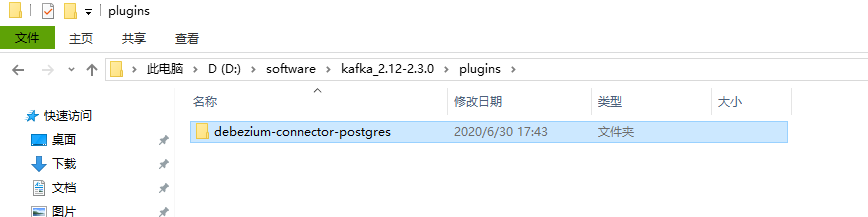
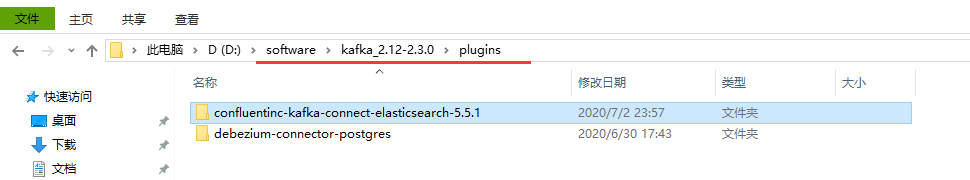
add

diff --git a/_posts/2020-07-02-通过 kafka 同步 postgres 数据到 elasticsearch 中.md b/_posts/2020-07-02-通过 kafka 同步 postgres 数据到 elasticsearch 中.md
@@ -1,0 +1,192 @@
+---
+layout: post
+title: "通过 kafka 同步 postgres 数据到 elasticsearch 中"
+date: 2020-07-02 20:00:00
+tags: kafka elasticsearch
+---
+
+## 系统环境及软件版本
+
+- window10 64位 系统
+- kafka 2.3.0 版本(下载地址 http://kafka.apache.org/downloads)
+- postgres 连接器 debezium-connector-postgres 1.1.2.Final 版本(下载地址 https://debezium.io/releases/1.1/)
+- es 连接器 confluentinc-kafka-connect-elasticsearch-5.5.1 版本(下载地址 https://www.confluent.io/hub/confluentinc/kafka-connect-elasticsearch)
+
+
+
+
+## 下载连接器插件
+
+根据上面的下载地址下载这两个连接器插件，下载后解压放到 `/software/kafka_2.12-2.3.0/plugins` 文件夹中，因为下面连接器的会配置这个地址为插件地址，启动连接器时会自动加载文件夹下的 jar 包。
+
+![](https://raw.githubusercontent.com/yupengj/yupengj.github.io/master/images/2020/plugins.png)
+
+## 启动 kafka 连接器
+
+- 首先启动连接器前要确保 kafka server 已经启动。修改 kafka 文件夹下 config/connect-distributed.properties 文件增加以下配置
+```properties
+# rest 请求地址
+rest.host.name=localhost
+rest.port=8083
+# 插件地址,为了清楚区分插件的 jar 和 kafka 的 jar 在 kafka 下增加插件文件夹（plugins），启动连接器时会加载该目录下的 jar。
+# 如果没有配置这个路径需要把插件的所有jar复制到 kafka 的 libs 目录下
+plugin.path=/software/kafka_2.12-2.3.0/plugins
+```
+
+- 启动连接器 Worker, 启动时有类着不到警告，暂时没有找到原因。
+```
+bin/windows/connect-distributed.bat config/connect-distributed.properties 
+```
+
+- 查看所有的连接器插件 `curl localhost:8083/connector-plugins`. 一共有4个连机器，前两个是新增加的，后两个是 kafka 自带的
+```json
+[{
+    "class": "io.confluent.connect.elasticsearch.ElasticsearchSinkConnector",
+    "type": "sink",
+    "version": "5.5.1"
+}, {
+    "class": "io.debezium.connector.postgresql.PostgresConnector",
+    "type": "source",
+    "version": "1.1.2.Final"
+}, {
+    "class": "org.apache.kafka.connect.file.FileStreamSinkConnector",
+    "type": "sink",
+    "version": "2.3.0"
+}, {
+    "class": "org.apache.kafka.connect.file.FileStreamSourceConnector",
+    "type": "source",
+    "version": "2.3.0"
+}]
+```
+
+> 到这里说明连接器工作节点已启动，并且连接 postgresql 和 es 的连接器都已经被加载成功
+
+
+## 创建 postgres 连接器
+
+创建 postgres 连接器之前，需要在 postgres 中安装 wal2json 插件或者 decoderbufs 插件。
+wal2json 插件安装可以参考我之前写的[文章](https://yupengj.github.io/2020/06/27/postgresql-%E5%AE%89%E8%A3%85-wal2json-%E6%8F%92%E4%BB%B6/)
+decoderbufs 插件安装可以参考 github 上的[官网文档](https://github.com/debezium/postgres-decoderbufs)
+
+### 准备同步数据
+
+在 postgres 创建用于测试的 schema 名称为 "test"。并在 test scheme 下创建 test_slot 表，并写入100条数据
+```postgresql
+create schema test;
+create table test.test_slot(id serial8 primary key, a text, b float8, c timestamp);
+do
+$$
+    declare
+        num integer := 1;
+    begin
+        while num <= 100
+            loop
+                insert into test.test_slot (a, b, c) values (num||'', num, now());
+                num := num + 1;
+            end loop;
+    end
+$$;
+```
+
+### postgres 连接器配置
+
+创建名称为 `connect-postgres-source.json` 的json文件放在 kafka 的 config 目录下. 文件内容如下，其中 database 开头的配置是配置数据库连接的参数。`schema.whitelist` 是要同步 scheme 下所有的表
+其他配置就不一一解释请参考官方文档。最下方有文档连接
+```json
+{
+  "name": "pg-source",
+  "config": {
+    "connector.class": "io.debezium.connector.postgresql.PostgresConnector",
+    "tasks.max": "1",
+    "database.hostname": "loaclhost",
+    "database.port": "5432",
+    "database.user": "postgres",
+    "database.password": "app",
+    "database.dbname": "postgres",
+    "database.server.name": "test",
+    "schema.whitelist": "test",
+    "table.blacklist": "",
+    "plugin.name": "wal2json",
+    "snapshot.mode": "initial",
+    "slot.name": "test"
+  }
+}
+```
+
+### 创建 postgres 连接器
+
+-d 是连接器的配置文件路径。我这个请求是在kafka目录下执行的，所以配置文件相对路径就是config/connect-postgres-source.json。命令在哪里执行都可以只要配置文件路径正确就可以
+```
+curl -i -X POST -H "Accept:application/json" -H "Content-Type:application/json" localhost:8083/connectors/ -d @config/connect-postgres-source.json
+```
+注意连接器创建前必须保证连接器 Worker 已启动。创建连接器后可通过 API 查看所有启动的连接器`curl localhost:8083/connectors`和连接器的状态`curl localhost:8083/connectors/pg-source/status`
+![](https://raw.githubusercontent.com/yupengj/yupengj.github.io/master/images/2020/connectors.png)
+
+### 测试数据同步
+
+创建消费者客户端测试同步数据。连接器创建成功后会自动同步数据到 kafka 的指定主题中，主题的名称为配置中的`database.server.name`.`schemaName`.`tableName`，如这里主题的名称是 'test.test.test_slot'
+```
+bin/windows/kafka-console-consumer.bat --bootstrap-server localhost:9092 --topic test.test.test_slot --from-beginning
+```
+
+如果一切正常控制台会打印同步到的数据。之后在 test_slot 表中增加、修改、删除操作检查是否可以实时同步到数据。至于不同操作同步到的数据结构可以到 debezium-connector-postgres 官方文档中查看。文档中有详细介绍。
+```postgresql
+insert into test.test_slot (a, b, c) values ('test', 10, now());
+update test.test_slot set a = 'test1' where a = 'test';
+delete from test.test_slot where a ='test1';
+```
+
+## 创建 elasticsearch 连接器
+
+### elasticsearch 连接器配置 
+
+这里定义同步的主题是 `test.test.test_slot` 也就是 topics 参数的值，`connection` 开头的配置是 es 的连接参数，其他参数可选查询官网的说明文档
+```json
+{
+  "name": "es-sink",
+  "config": {
+    "connector.class": "io.confluent.connect.elasticsearch.ElasticsearchSinkConnector",
+    "tasks.max": "1",
+    "connection.url": "http://localhost:9200",
+    "connection.user": "",
+    "connection.password": "",
+    "topics": "test.test.test_slot",
+    "type.name": "_doc",
+	"schema.ignore": "true",
+	"key.ignore": "false",
+	"transforms": "renameTopic,extractId,extractAfter,createDateConverter,updateDateConverter",
+	"transforms.renameTopic.type": "org.apache.kafka.connect.transforms.RegexRouter",
+	"transforms.renameTopic.regex": ".*\\.(.*)",
+	"transforms.renameTopic.replacement": "$1",
+	"transforms.extractId.type": "org.apache.kafka.connect.transforms.ExtractField$Key",
+	"transforms.extractId.field": "id",
+	"transforms.extractAfter.type": "org.apache.kafka.connect.transforms.ExtractField$Value",
+	"transforms.extractAfter.field": "after",
+	"transforms.createDateConverter.type": "org.apache.kafka.connect.transforms.TimestampConverter$Value",
+	"transforms.createDateConverter.target.type": "string",
+	"transforms.createDateConverter.field": "create_date",
+	"transforms.createDateConverter.format": "yyyy-MM-dd HH:mm:ss",
+	"transforms.updateDateConverter.type": "org.apache.kafka.connect.transforms.TimestampConverter$Value",
+	"transforms.updateDateConverter.target.type": "string",
+	"transforms.updateDateConverter.field": "update_date",
+	"transforms.updateDateConverter.format": "yyyy-MM-dd HH:mm:ss",
+	"consumer.max.partition.fetch.bytes": "52428800"
+  }
+}
+```
+
+### 创建 elasticsearch 连接器
+
+```
+curl -i -X POST -H "Accept:application/json" -H "Content-Type:application/json" localhost:8083/connectors/ -d @config/connect-es-sink.json
+```
+
+如一切正常在 postgres 中新增，修改，删除数据时 es 就会立即同步到变化的数据。
+
+
+## 参考
+
+文档地址 https://docs.confluent.io/current/connect/kafka-connect-elasticsearch/configuration_options.html
+- [kafka 连接器官网文档](http://kafka.apache.org/documentation/#connect)
+- [debezium-connector-postgres 官网文档](https://debezium.io/documentation/reference/1.1/connectors/postgresql.html)
+- [kafka-connect-elasticsearch 官网地址](https://www.confluent.io/hub/confluentinc/kafka-connect-elasticsearch)

diff --git a/_posts/2020-06-30-kafka 安装及连接器的配置.md b/_posts/2020-06-30-kafka 安装及连接器的配置.md
@@ -1,6 +1,6 @@
 ---
 layout: post
-title: "kafka 安装及使用 postgres 连接器同步数据到 kafka"
+title: "kafka 安装及连接器的配置"
 date: 2020-06-30 20:00:00
 tags: kafka
 ---
@@ -9,8 +9,8 @@ tags: kafka
 
 - window10 64位 系统
 - kafka 2.3.0 版本(下载地址 http://kafka.apache.org/downloads)
-- debezium-connector-postgres 1.1.2.Final 版本(下载地址 https://debezium.io/releases/1.1/)
 
+本文章将介绍 kafka 安装、命令行方式的数据同步、 java 客户端方式的消息同步、kafka 连接器的配置和启动
 
 
 
@@ -123,7 +123,7 @@ public class Consumer {
 }
 ```
 
-## 启动连接器 Worker 安装 debezium-connector-postgres 连接器插件
+## 启动连接器 Worker
 
 - 修改 kafka 文件夹下 config/connect-distributed.properties 文件增加以下配置
 ```properties
@@ -135,91 +135,27 @@ rest.port=8083
 plugin.path=/software/kafka_2.12-2.3.0/plugins
 ```
 
-- 下载 debezium-connector-postgres 插件 [https://debezium.io/releases/1.1/](https://debezium.io/releases/1.1/)。 把下载的文件解压后放到配置文件中定义的插件位置也就是 /software/kafka_2.12-2.3.0/plugins 中
-![](https://raw.githubusercontent.com/yupengj/yupengj.github.io/master/images/2020/plugins.png)
-
-- 启动连接器 Worker, 启动时有类着不到警告，暂时没有找到原因。
+- 启动连接器 Worker, 启动时有类着不到警告，暂时没有找到原因
 ```
 bin/windows/connect-distributed.bat config/connect-distributed.properties 
 ```
 
-- 查看所有的连接器插件 `curl localhost:8083/connector-plugins`. 第一个是新增加的，后面两个是 kafka 自带的。
-![](https://raw.githubusercontent.com/yupengj/yupengj.github.io/master/images/2020/curl_plugins.png)
-
-## 创建 debezium-connector-postgres 连接器同步数据到 kafka
-
-创建 postgres 连接器之前，需要在 postgres 中安装 wal2json 插件或者 decoderbufs 插件。
-wal2json 插件安装可以参考我之前写的[文章](https://yupengj.github.io/2020/06/27/postgresql-%E5%AE%89%E8%A3%85-wal2json-%E6%8F%92%E4%BB%B6/)
-decoderbufs 插件安装可以参考 github 上的[官网文档](https://github.com/debezium/postgres-decoderbufs)
-
-### 准备同步数据
-
-在 postgres 创建用于测试的 schema 名称为 "test"。并在 test scheme 下创建 test 表，并写入100条数据
-```postgresql
-create schema test;
-create table test.test_slot(id serial8 primary key, a text, b float8, c timestamp);
-do
-$$
-    declare
-        num integer := 1;
-    begin
-        while num <= 100
-            loop
-                insert into test.test_slot (a, b, c) values (num||'', num, now());
-                num := num + 1;
-            end loop;
-    end
-$$;
-```
-
-### 创建 postgres 连接器
-
-- 编写 postgres 连接器配置文件
-创建名称为 `connect-postgres-source.json` 的json文件放在 kafka 的 config 目录下. 文件内容如下，其中 database 开头的配置是配置数据库连接的参数。
-其他配置就不一一解释请参考官方文档。最下方有文档连接
+- 查看所有的连接器插件 `curl localhost:8083/connector-plugins`. 会有两个连接器，这两个是 kafka 自带的
 ```json
-{
-  "name": "pg-source",
-  "config": {
-    "connector.class": "io.debezium.connector.postgresql.PostgresConnector",
-    "tasks.max": "1",
-    "database.hostname": "loaclhost",
-    "database.port": "5432",
-    "database.user": "postgres",
-    "database.password": "app",
-    "database.dbname": "postgres",
-    "database.server.name": "test",
-    "schema.whitelist": "test",
-    "table.blacklist": "",
-    "plugin.name": "wal2json",
-    "snapshot.mode": "initial",
-    "slot.name": "test"
-  }
-}
+[{
+    "class": "org.apache.kafka.connect.file.FileStreamSinkConnector",
+    "type": "sink",
+    "version": "2.3.0"
+}, {
+    "class": "org.apache.kafka.connect.file.FileStreamSourceConnector",
+    "type": "source",
+    "version": "2.3.0"
+}]
 ```
 
-- 创建 postgres 连接器
--d 是连接器的配置文件路径。我这个请求是在kafka目录下执行的，所以配置文件相对路径就是config/connect-postgres-source.json。命令在哪里执行都可以只要配置文件路径正确就可以
-```
-curl -i -X POST -H "Accept:application/json" -H "Content-Type:application/json" localhost:8083/connectors/ -d @config/connect-postgres-source.json
-```
-注意连接器创建前必须保证连接器 Worker 已启动。创建连接器后可通过 API 查看所有启动的连接器`curl localhost:8083/connectors`和连接器的状态`curl localhost:8083/connectors/pg-source/status`
-![](https://raw.githubusercontent.com/yupengj/yupengj.github.io/master/images/2020/connectors.png)
-
-- 创建消费者客户端测试同步数据。连接器创建成功后会自动同步数据到 kafka 的指定主题中，主题的名称为配置中的`database.server.name`.`schemaName`.`tableName`，如这里主题的名称是 'test.test.test_slot'
-```
-bin/windows/kafka-console-consumer.bat --bootstrap-server localhost:9092 --topic test.test.test_slot --from-beginning
-```
-
-如果一切正常控制台会打印同步到的数据。之后在 test_slot 表中增加、修改、删除操作检查是否可以实时同步到数据。至于不同操作同步到的数据结构可以到 debezium-connector-postgres 官方文档中查看。文档中有详细介绍。
-```postgresql
-insert into test.test_slot (a, b, c) values ('test', 10, now());
-update test.test_slot set a = 'test1' where a = 'test';
-delete from test.test_slot where a ='test1';
-```
+官方文档中有针对这两个连接器的简单用例，可以参考文档试一下。这里就不详细介绍了，下一篇文章会介绍如何利用kafka连接器同步 postgres 数据到 elasticsearch 中
 
 ## 参考地址
-- [java客户端源码地址](https://github.com/yupengj/kafka-examples)
-- [kafka 快速开始官方文档](http://kafka.apache.org/quickstart)
-- [kafka 连接器官方文档](http://kafka.apache.org/documentation/#connect)
-- [debezium-connector-postgres 官方文档](https://debezium.io/documentation/reference/1.1/connectors/postgresql.html)
+- [java 客户端源码地址](https://github.com/yupengj/kafka-examples)
+- [kafka 快速开始官网文档](http://kafka.apache.org/quickstart)
+- [kafka 连接器官网文档](http://kafka.apache.org/documentation/#connect)

diff --git a/_draft/启动命令.md b/_draft/启动命令.md
@@ -1,0 +1,37 @@
+
+## 启动命令
+
+- 启动 kafka ZooKeeper
+```
+bin/windows/zookeeper-server-start.bat config/zookeeper.properties
+```
+
+- 启动 kafka server
+```
+bin/windows/kafka-server-start.bat config/server.properties
+```
+
+- 启动 kafka connect worker
+```
+bin/windows/connect-distributed.bat config/connect-distributed.properties 
+```
+
+- 创建 kafka postgres source 连接器
+```
+curl -i -X POST -H "Accept:application/json" -H "Content-Type:application/json" localhost:8083/connectors/ -d @config/connect-postgres-source.json
+```
+
+- 创建 kafka es sink 连接器
+```
+curl -i -X POST -H "Accept:application/json" -H "Content-Type:application/json" localhost:8083/connectors/ -d @config/connect-es-sink.json
+```
+
+- 启动 es
+```
+bin/elasticsearch.bat -E node.name=node1 -E cluster.name=test1 -E path.data=node1_data
+```
+
+- 启动 kibana
+```
+bin/kibana.bat
+```
